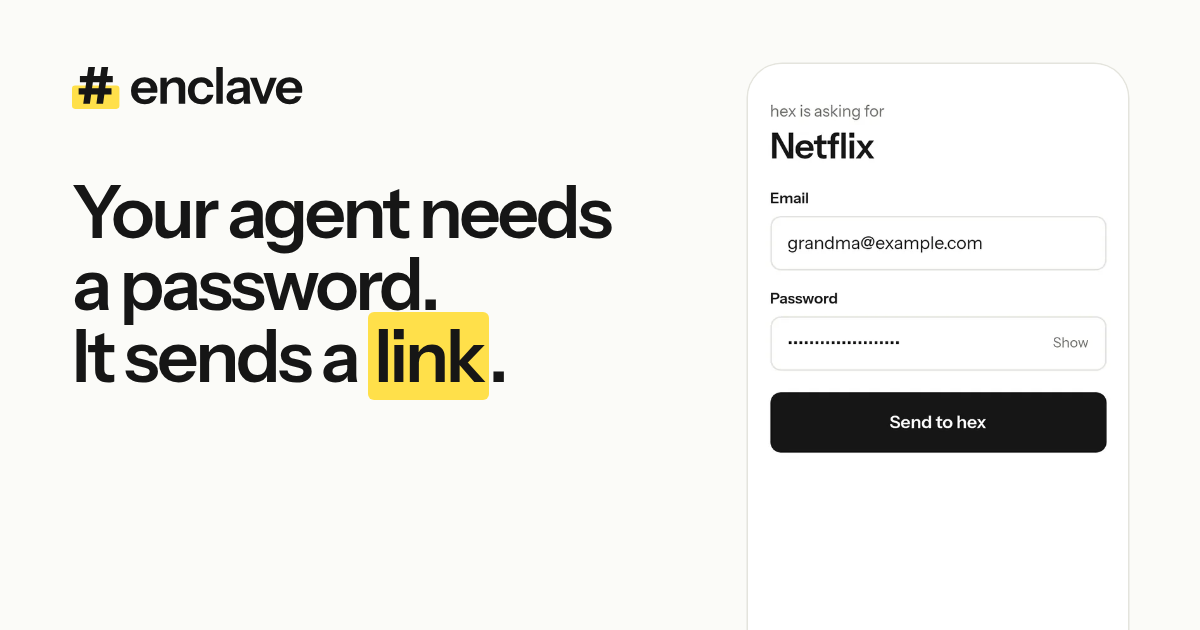
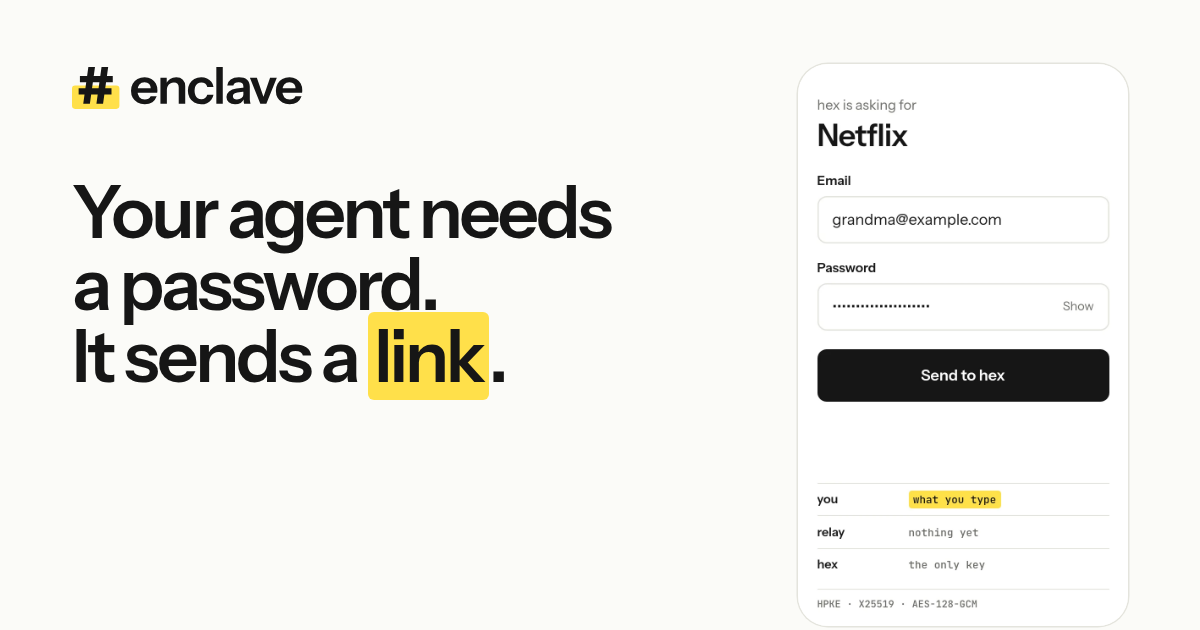
docs(site): the link preview shows the whole page, ledger included

diff --git a/site/og.html b/site/og.html
@@ -25,7 +25,7 @@
         height: 630px;
         overflow: hidden;
         display: grid;
-        grid-template-columns: 1fr 380px;
+        grid-template-columns: 1fr 330px;
         gap: 56px;
         padding: 64px 72px 0;
         background: #fbfbf8;
@@ -59,8 +59,8 @@
 
       .phone {
         align-self: start;
-        width: 380px;
-        border-radius: 34px;
+        width: 330px;
+        border-radius: 30px;
         box-shadow: 0 0 0 1.5px #e4e4dd;
       }
     </style>
@@ -70,6 +70,6 @@
       <img class="wordmark" src="../brand/logo/ledger-wordmark.svg" alt="enclave" />
       <h1><span>Your agent needs</span> <span>a password.</span> <span>It sends a <mark>link</mark>.</span></h1>
     </div>
-    <img class="phone" src="public/shots/ledger-light-ask.webp" alt="" />
+    <img class="phone" src="public/shots/hero/ledger-light.webp" alt="" />
   </body>
 </html>

diff --git a/site/index.html b/site/index.html
@@ -9,7 +9,7 @@
     <meta property="og:title" content="enclave" />
     <meta property="og:description" content="Your agent asks for a password by one-time link, not in chat, and uses it without seeing it." />
     <meta property="og:url" content="https://enclave-pink.vercel.app" />
-    <meta property="og:image" content="https://enclave-pink.vercel.app/og.png?v=2" />
+    <meta property="og:image" content="https://enclave-pink.vercel.app/og.png?v=3" />
     <meta property="og:image:width" content="1200" />
     <meta property="og:image:height" content="630" />
     <meta property="og:image:alt" content="enclave: hex is asking for Netflix on a one-time page with email and password fields and a Send to hex button." />
